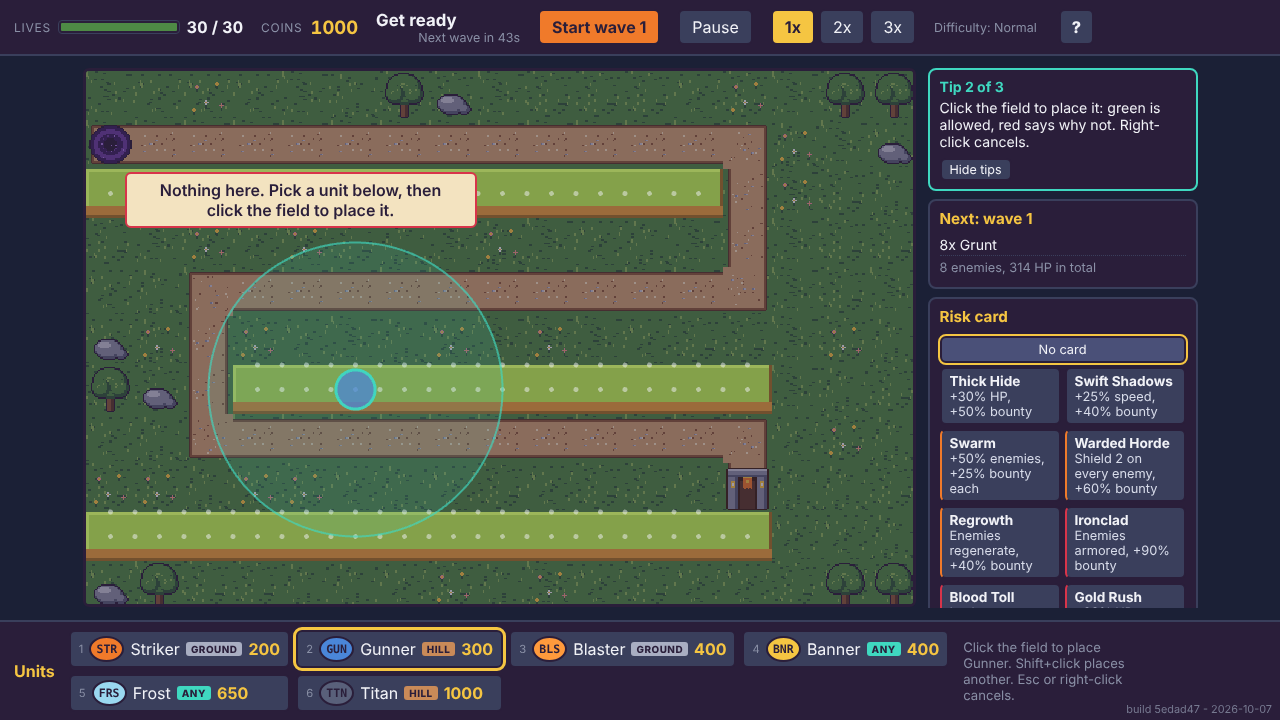
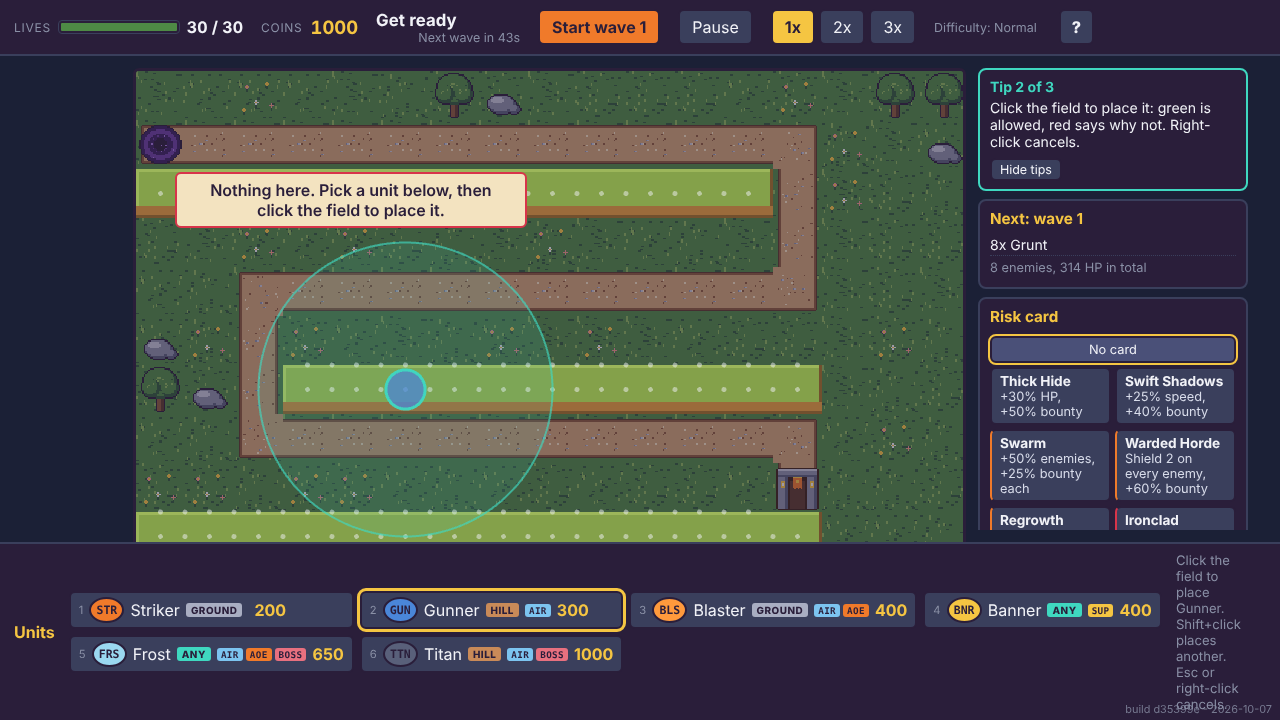
Runde 6 P6: Abschluss, Kurzbericht und offene Fragen in STATUS
Smoke mit echten Mausklicks auf freie Positionen auf 1280x720, 1920x1080,
2560x1440 bis Spielende grün (0 abgelehnte Klicks), Screenshots erneuert.

Claude-Session: https://claude.ai/code/session_0136THErrQfhMR9uJfBr1D2L

diff --git a/docs/STATUS.md b/docs/STATUS.md
@@ -6,7 +6,7 @@ Frühere Aufträge: [archiv/run-runde1.md](archiv/run-runde1.md), [archiv/run-ru
 
 ## Runde 6
 
-Letzte Aktualisierung: 2026-10-07 (Runde 6 gestartet)
+Letzte Aktualisierung: 2026-10-07 (Runde 6 abgeschlossen, P6)
 
 | Paket | Inhalt | Status | Agent (Modell) | Notiz |
 |---|---|---|---|---|
@@ -15,13 +15,60 @@ Letzte Aktualisierung: 2026-10-07 (Runde 6 gestartet)
 | P2 | Balance grob (Farm, Spam, Stufen, Max-Replay) | **erledigt** | 1 × Sonnet | Farm-Ertrag ×0,65 (42/75/110/165/240): Hard farm 90 → 64, wide 55 (Abstand 9). Spam: ab dem 6. Exemplar je Typ +10 % Platzierkosten (`economy.placeCostGrowthBp`/`placeCostFreeCopies`, API `sim.placeCost(player, unitId)`): `mono-frost` Normal 100 → 16. Neue Bots `mono-X`/`mono-X+up`. Beste Strategie N/H/NM 100/70/26 (wide 99/55/24). **Offen für Menschen:** Blaster ist Pflicht-Unit (Verbot −50 bis −97), ohne Titan siegen Bots auf Hard zu 95–98 (Titan = Falle). Max-Replay-Analyse (3 Punkte für P4) in `kalibrierung.md`. 265 sim-Tests + tsc grün. [kalibrierung.md § Runde 6 — P2](balancing/kalibrierung.md) |
 | P3 | Client: freie Platzierung, Smoke | **erledigt** | 1 × Sonnet | Platzieren per Mausposition (`Session.clickBoard` -> `place {x,y}`), Geist in Unit-Groesse gruen/rot mit Grund (`sim.canPlace`), Reichweitenkreis immer, Zonen-Hervorhebung (Boden tuerkis, Huegel gold) + Abdunkeln, Klick an roter Stelle = Toast mit Grund, Klick auf Unit waehlt, Shift+Klick = nochmal setzen. `ui/slots.ts` + DOM-Slots entfallen, Karte: Huegel als Flaeche, Deko nur auf `#`. Kein `cap`-Text mehr. Replay v2 geprueft, `replay-check` mit echter Maus (Hash OK). Smoke: ganze Partie mit echten Klicks auf freie Stellen, 3 Aufloesungen gruen (1280x720 / 1920x1080 / 2560x1440: Spielende per Niederlage in W10-11, 0 abgelehnte Klicks; der einfache Plan gewinnt nicht), Geist-Status, Pfad-Klick-Toast, Mobil-Gate. 115 vitest-Tests. Details [client/README.md](../client/README.md) |
 | P4 | Lesbarkeit und Hilfe im Match | **erledigt** | 1 × Sonnet | Flieger: `FLY`-Symbol in der Vorschau, Hinweis „Flyers incoming - X of your units can hit air“, bei 0 rote Warnung samt Start-Knopf „no anti-air!“ (Luft = `canHitAir` mit Angriff, Banner zählt nicht). Shop: Symbole AIR/AOE/BOSS/SUP/INC aus den Daten (Tooltip in en.ts) und aktueller Platzierpreis `sim.placeCost(0, id)` (orange bei Aufschlag; Fehler-Toast nutzt ihn auch). Hinweise unten links im Feld: „You have coins to spend“ (Leak in den letzten 20 s und Konto > 1,5 × günstigste Team-Unit), „Ability ready“ plus goldenes Plus an der Unit. Boss-Welle: Kurzinfo mit Frost/Titan aus den Daten. Niederlage: drei regelbasierte Tipps (`view/tips.ts`, Recorder-Wellenstatistik, Käufe, Münzen), feste Auffüller statt Zufall. 24 neue vitest-Tests (139 gesamt). Details [client/README.md](../client/README.md) |
-| P5 | Grafik-Austausch Kenney (optional) | offen | – | nur wenn `client/assets/vendor/` liegt |
-| P6 | Abschluss | offen | Hauptsitzung | |
+| P5 | Grafik-Austausch Kenney (optional) | **übersprungen** (`client/assets/vendor/` fehlt) | – | nur wenn `client/assets/vendor/` liegt |
+| P6 | Abschluss | **erledigt** | Hauptsitzung | Kurzbericht unten |
 
 **Offene Fragen Runde 6 (mit Empfehlung):**
 - `teamUnits` = 60 (technische Obergrenze): Misst P1 mit Bots **ohne** Bot-Limit, erreicht keiner sie (größter Spitzenwert `wide` 38 Units, `greedy`/`aoe`/`farm` 21–24). Empfehlung: 60 als Sicherung stehen lassen, nach Playtests mit Menschen neu bewerten. Ein Mensch kann sie erreichen (Platz für 60 Striker ist auf der Karte da).
 - Die Karte (17 x 11) ist eng für freie Platzierung: Bodenreihen neben dem Pfad nur ca. 0,6 Tiles breit nutzbar, Farms nur rechts außen. Empfehlung: P3 baut die Platzier-Hervorhebung auf den Zonen auf; eine zweite, größere Karte ist ein Thema für M4, nicht jetzt.
 - Bot-Befund für P2: Stapeln auf den Innenkurven schlägt Verteilen (Verteil-Abstand/Neuheits-Abschlag machten alle Bots deutlich schwächer); ohne Limit verliert `wide` auf Normal von 99 auf 30 %. Details in `kalibrierung.md` Runde 6 — P1.
+
+## Kurzbericht Runde 6 (P6, 07.10.2026)
+
+```text
+STATUS — Runde 6
+Pakete erledigt / offen: P0–P4, P6 erledigt; P5 übersprungen (Kenney-Packs nicht im Repo)
+Abnahmeziele:
+  Freie Platzierung: erreicht (Zonen ground/hill/blocked, nicht auf Pfad/überlappend/außerhalb)
+  Kein Typ-Limit: erreicht (cap entfernt, Test mit 15 gleichen Units)
+  Keine dominante Strategie (Hard, ≤ ~20): erreicht (farm 64 / wide 55, Abstand 9)
+  Stufen grob (beste Strategie / wide): Normal 100/99, Hard 70/55, Nightmare 26/24 → erreicht
+    (Hard am oberen Rand, Normal für Bots leicht)
+  Spam lohnt nicht allein (≤ ~60 % Normal): mono-X 0 % außer mono-frost 16 %; mit Upgrades
+    mono-frost+up 100/70/12 → verfehlt für Frost-Spam mit Upgrades
+  Keine Pflicht-Unit (≤ ~30): verfehlt — Blaster-Verbot −50 bis −97; Titan ist für Bots auf Hard
+    eher Falle (ohne Titan 90–98 %)
+  Lesbarkeit Flieger: erreicht (FLY-Symbol, Hinweis, rote Warnung + Start-Knopf bei 0 Luftabwehr)
+  Geld wird ausgegeben: erreicht (Hinweis bei Leak + Münzen > 1,5 × günstigste Unit)
+  Smoke: erreicht (echte Mausklicks auf freie Positionen, 1280×720 / 1920×1080 / 2560×1440 bis
+    Spielende, 0 abgelehnte Klicks; einfacher Plan verliert W11)
+Platzierungsmodell: Kachelmaske 17×11 (ground/hill/blocked/path), Unit-Kreis r 0,4 Tile (Farm 0,9),
+  Pfadabstand halbe Breite + r; Gründe out-of-bounds, on-path, blocked, wrong-zone, overlap
+Balance (alt → neu): Farm-Ertrag ×0,65 (65/117/176/267/403 → 42/75/110/165/240); Platzierkosten ab
+  6. Exemplar +10 % je weiterem; Stufen siehe oben
+Analyse Max-Replay: Luftabwehr kam erst W10 (14/26 Leaks Flieger); Ablehnungen (cap, Münzen) nicht
+  verstanden; 400–1100 Münzen ungenutzt, Fähigkeiten kaum, Titan nie → in P4 adressiert
+Performance Bot-Matrix (alt → neu): 32,5 s → 38,6 s (×1,19); Sim 258k → 230k Ticks/s
+Was die Menschen als Nächstes testen sollen:
+  1. Normal einmal durchspielen: Fühlt sich freie Platzierung gut an? Ist der Streifen neben dem Pfad zu eng?
+  2. Flieger-Warnung vor W8/W16: gesehen, verstanden, rechtzeitig reagiert?
+  3. Shop-Symbole (AIR/AOE/BOSS/SUP/INC) und Preisaufschlag ab dem 6. Exemplar: verständlich?
+  4. Niederlage-Tipps: passen die drei Tipps zu dem, was schiefging?
+  5. Replay nach jeder Runde schicken (jetzt Format v2)
+Vorschlag für Runde 7 (M3-Start): Lokaler Speicherstand (IndexedDB, versioniert, Export/Import) als
+  Fundament, dann Gacha mit sichtbaren Raten/Pity und Mock-Währung nach architecture.md §7, aber
+  clientseitig und klar als „lokal, wandert mit M2 auf den Server" markiert. Unit-Level und Sterne
+  als Datenmodell in sim/data, damit die Bots sie mitsimulieren können. Vorher klären: Blaster-Pflicht
+  und Titan-Falle (Boss-Design) — beides wird mit mehr Units ohnehin neu bewertet. Größere oder zweite
+  Karte erst M4.
+Agenten: 4 × Sonnet (P1 allein, dann P2+P3 parallel in Worktrees, dann P4)
+Commits: 8 auf dev seit dem Auftrag (c2d79e5)
+```
+
+**Offene Fragen an die Menschen (Runde 6, mit Empfehlung):**
+- **Blaster ist Pflicht** (Verbot −50 bis −97): Er ist die einzige Boden-Flächen-Unit, die Luft trifft. Empfehlung: nicht jetzt feintunen; mit dem M3-Unit-Pool eine zweite Boden-AoE einplanen.
+- **Titan ist für Bots auf Hard eher Falle** (ohne Titan 90–98 %): teuer, und die Boss-Wirkungen lassen sich auch per Frost/Dauerschaden brechen. Empfehlung: so lassen, bis Menschen-Replays zeigen, ob Spieler ihn brauchen.
+- **Frost-Spam mit Upgrades** schafft Normal 100 %: Empfehlung: akzeptieren (Upgrades kosten Münzen, das ist eine echte Strategie), mit M3-Units neu messen.
 
 ## Runde 5 (abgeschlossen)
 
